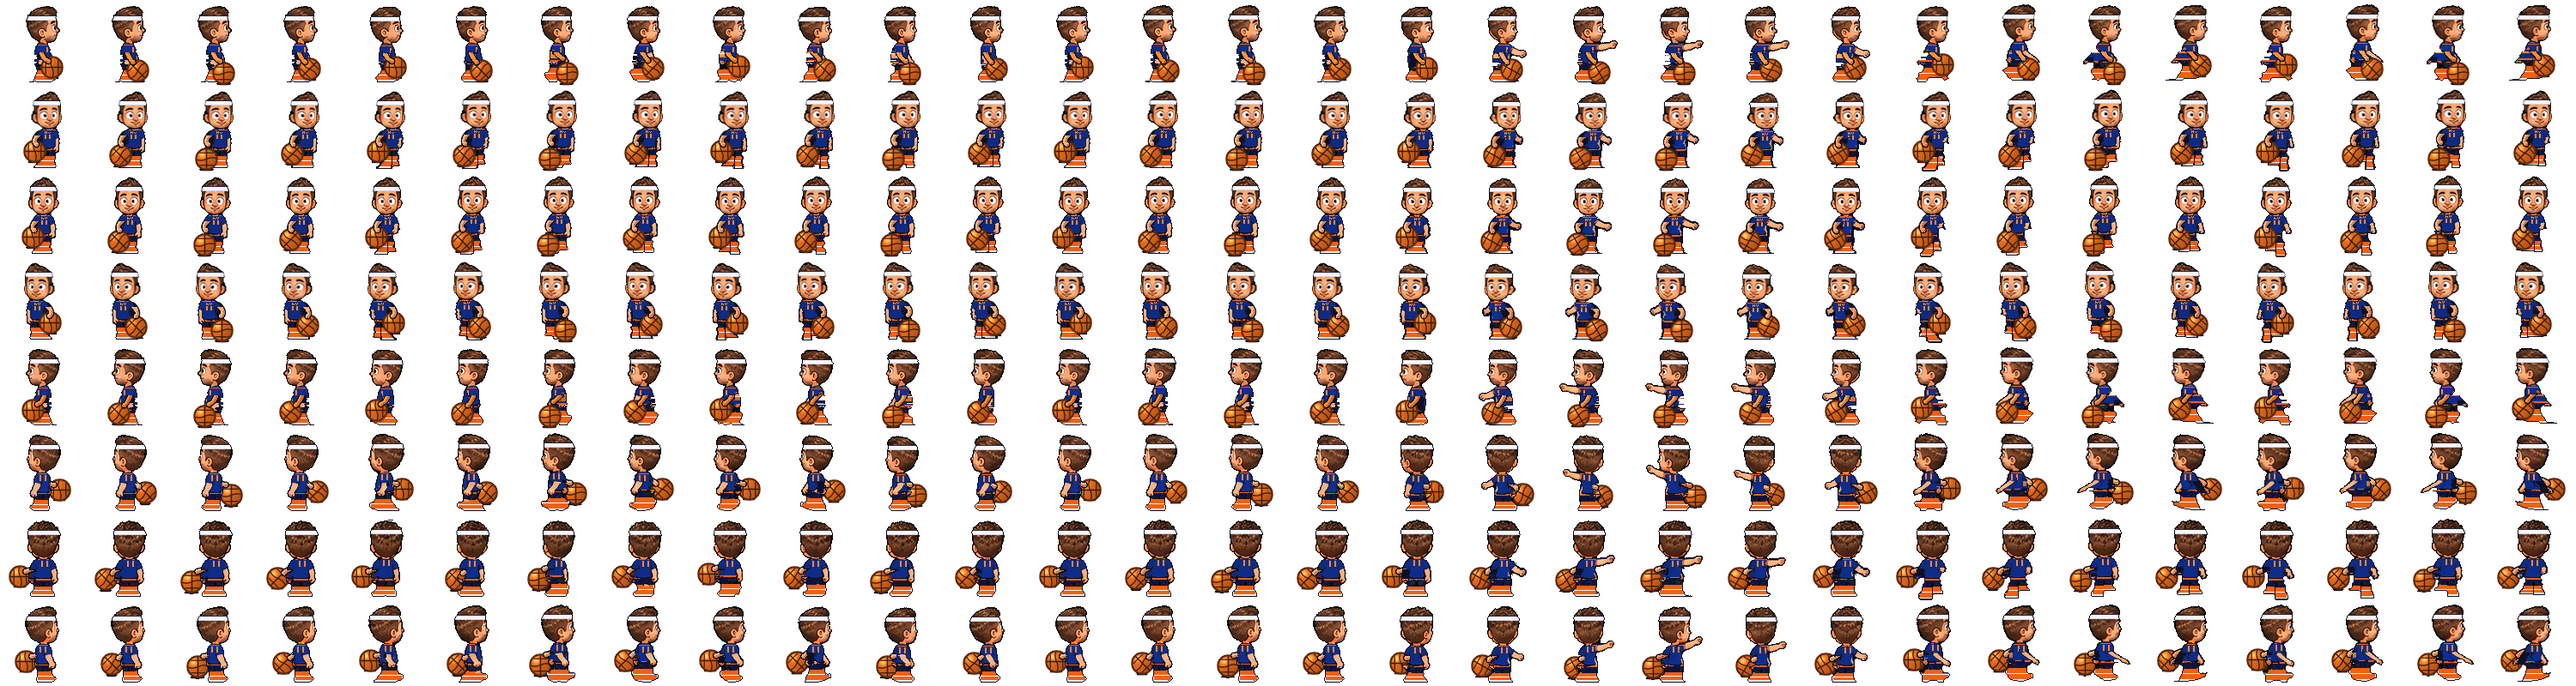
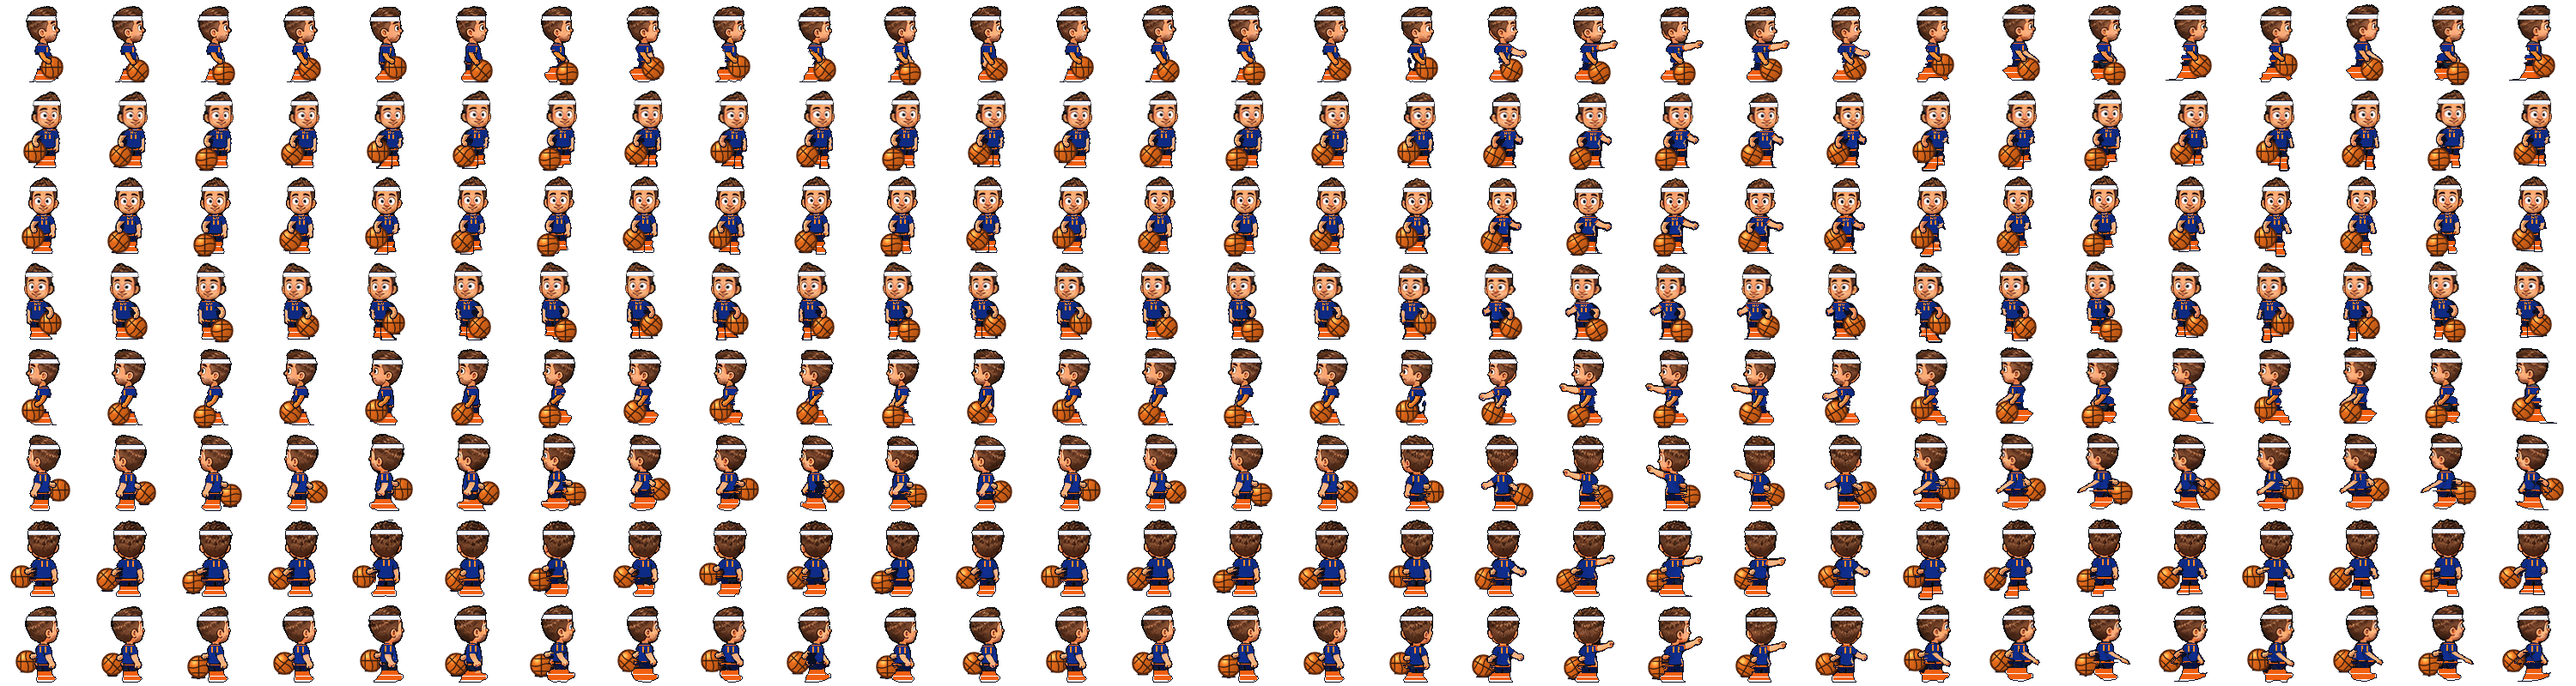
Remove the leftover arm shards behind the hips on run and walk.
The old swinging arm's outline was being filled back in as a navy fin. Those pixels are cleared so the shorts and legs follow the base James silhouette, and every frame is checked for fragments outside that shape.

diff --git a/phaser-tag-client/tools/make_basketball_skin.py b/phaser-tag-client/tools/make_basketball_skin.py
@@ -580,34 +580,52 @@ def _is_cloth(rgb: np.ndarray) -> np.ndarray:
     return navy | orange
 
 
-def drop_limp_arm(body: np.ndarray, g: Geometry, direction: str) -> np.ndarray:
-    """Clear the original arm on the dribble side.
+def dribble_arm_mask(src: np.ndarray, g: Geometry, direction: str) -> np.ndarray:
+    """The original swinging arm on the dribble side, outline included.
 
-    Only bare skin and the outline pixel touching it. The head, the neck
-    and the jersey stay. Navy used to get swept up with the outline and
-    left a hole the grass showed through.
+    Taken from the base James frame so the shorts and legs stay his shape.
+    The other arm is the one that tags, and it stays.
     """
-    h, w = body.shape[:2]
+    h, w = src.shape[:2]
     yy = np.arange(h)[:, None]
-    xx = np.arange(w)[None, :].astype(np.float64)
+    face = (yy <= g.neck + 1) & skin_mask(src)
+    arms, _hands = arms_and_hands(src, g, face)
     side = float(-TAG_SIDE[direction])
-    on_side = (xx - g.head_cx) * side > 1.2
-    # below the chin, so the back of the head and the neck are not an arm
-    below = yy > g.neck + 6
-    above_leg = yy < g.hem
-    cloth = _is_cloth(body[..., :3])
-    sk = loose_skin(body) & on_side & below & above_leg & ~cloth
-    # a raised forearm on the run, still clear of the skull
-    raised = (
-        loose_skin(body) & on_side & ~cloth
-        & (yy > g.neck + 2) & (yy <= g.neck + 6)
-        & ((xx - g.head_cx) * side > 11)
-    )
-    sk = sk | raised
-    dark = alpha_mask(body) & (lum(body) < 55) & ~cloth & on_side & below & above_leg
-    limp = sk | grow(sk, dark, 1)
+    on = np.zeros_like(arms)
+    for comp in components8(arms):
+        _ys, xs = np.nonzero(comp)
+        if len(xs) == 0:
+            continue
+        if float(((xs - g.head_cx) * side > 0).mean()) > 0.55:
+            on |= comp
+    # below the chin; the mask already starts under the neck
+    on &= yy > g.neck + 2
+    # the black outline of that arm, a couple of pixels out. The silhouette
+    # outline is connected, so this stops after two steps and does not walk
+    # around the whole body.
+    L = lum(src)
+    dark = (src[..., 3] > 40) & (L < 55)
+    for _ in range(2):
+        pad = np.pad(on, 1, constant_values=False)
+        nb = (
+            pad[:-2, 1:-1] | pad[2:, 1:-1] | pad[1:-1, :-2] | pad[1:-1, 2:]
+            | pad[:-2, :-2] | pad[:-2, 2:] | pad[2:, :-2] | pad[2:, 2:]
+        )
+        on = on | (nb & dark & (yy > g.neck + 2))
+    return on
+
+
+def drop_limp_arm(body: np.ndarray, g: Geometry, direction: str,
+                  arm_mask: np.ndarray | None = None) -> np.ndarray:
+    """Clear the original dribble-side arm, skin and outline together.
+
+    A skin-only erase left the black outline behind, and filling that
+    gap painted it back as a navy shard on the hip.
+    """
+    if arm_mask is None:
+        arm_mask = dribble_arm_mask(body, g, direction)
     out = body.copy()
-    out[limp] = 0
+    out[arm_mask] = 0
     return out
 
 
@@ -925,7 +943,8 @@ def _inward_color(row: np.ndarray, x_edge: int, cx: float):
     return None
 
 
-def close_arm_gap(merged: np.ndarray, painted: np.ndarray, g: Geometry) -> np.ndarray:
+def close_arm_gap(merged: np.ndarray, painted: np.ndarray, g: Geometry,
+                  arm_mask: np.ndarray | None = None) -> np.ndarray:
     """Grass between the new arm and the hip is the old arm, erased.
 
     That pocket is open at the top, so it is not an enclosed hole, but it
@@ -936,6 +955,9 @@ def close_arm_gap(merged: np.ndarray, painted: np.ndarray, g: Geometry) -> np.nd
     yy = np.arange(h)[:, None]
     missing = (painted[..., 3] > 40) & (merged[..., 3] < 20)
     missing &= (yy > g.neck + 4) & (yy < g.hem + 14)
+    # the swinging arm stays gone; filling it is the navy shard behind the hip
+    if arm_mask is not None:
+        missing &= ~arm_mask
     if not missing.any():
         return merged
     out = merged.copy()
@@ -984,6 +1006,91 @@ def close_arm_gap(merged: np.ndarray, painted: np.ndarray, g: Geometry) -> np.nd
     return out
 
 
+def _dilate(mask: np.ndarray, radius: int) -> np.ndarray:
+    m = mask
+    for _ in range(radius):
+        p = np.pad(m, 1, constant_values=False)
+        m = (
+            p[1:-1, 1:-1]
+            | p[:-2, 1:-1] | p[2:, 1:-1] | p[1:-1, :-2] | p[1:-1, 2:]
+            | p[:-2, :-2] | p[:-2, 2:] | p[2:, :-2] | p[2:, 2:]
+        )
+    return m
+
+
+def _zone_arm(h: int, w: int, shoulder, elbow, hand, pad: float = 1.8) -> np.ndarray:
+    """Pixels the new dribble arm covers, including its antialiased edge."""
+    pts, frac, _total = _arm_samples(shoulder, elbow, hand)
+    Y, X = np.mgrid[0:h, 0:w]
+    best_d = np.full((h, w), 1e9)
+    best_s = np.zeros((h, w))
+    for i in range(len(pts) - 1):
+        d, tt = seg_dist(X, Y, pts[i, 0], pts[i, 1], pts[i + 1, 0], pts[i + 1, 1])
+        closer = d < best_d
+        best_d = np.where(closer, d, best_d)
+        best_s = np.where(closer, frac[i] * (1.0 - tt) + frac[i + 1] * tt, best_s)
+    return best_d <= (_limb_radius(best_s) + pad)
+
+
+def _zone_ball(h: int, w: int, bx: float, by: float) -> np.ndarray:
+    Y, X = np.mgrid[0:h, 0:w]
+    return (X - bx) ** 2 + (Y - by) ** 2 <= (BALL_R + 1.8) ** 2
+
+
+def _zone_shadow(h: int, w: int, gx: float, gy: float) -> np.ndarray:
+    Y, X = np.mgrid[0:h, 0:w]
+    sx = (X - gx) / (BALL_R * 0.70)
+    sy = (Y - gy) / 2.1
+    return (sx * sx + sy * sy) < 1.3
+
+
+def stray_fragments(merged: np.ndarray, src: np.ndarray, arm_mask: np.ndarray,
+                    shoulder, elbow, hand, bx: float, by: float,
+                    gx: float, gy: float) -> np.ndarray:
+    """Opaque pixels that are not the base body, the ball, or the new arm.
+
+    The base body is James with the dribble-side arm removed. A shard of
+    the old arm, or a patch filled outside that silhouette, shows up here.
+    """
+    opaque = src[..., 3] > 40
+    remain = opaque & ~arm_mask
+    keep = np.zeros_like(remain)
+    # the torso, the other arm and the legs are large. Outline crumbs of
+    # the erased arm are a few pixels and are not part of his silhouette.
+    for comp in components8(remain):
+        if int(comp.sum()) >= 30:
+            keep |= comp
+    # inside that silhouette, including a one-pixel outline. A fin that
+    # sticks out past it is not inside, so it still counts as a fragment.
+    shell = np.where(_dilate(keep, 1), np.uint8(255), np.uint8(0))
+    allowed = ~_outside_clear(shell, thresh=24)
+    h, w = merged.shape[:2]
+    allowed |= _zone_arm(h, w, shoulder, elbow, hand)
+    allowed |= _zone_ball(h, w, bx, by)
+    allowed |= _zone_shadow(h, w, gx, gy)
+    raw = (merged[..., 3] > 80) & ~allowed
+    if not raw.any():
+        return raw
+    # a repaired slit sits inside the shirt. A shard is a patch that touches
+    # the outside, so only those components count.
+    a = merged[..., 3] > 40
+    pad = np.pad(~a, 1, constant_values=True)
+    touches = pad[:-2, 1:-1] | pad[2:, 1:-1] | pad[1:-1, :-2] | pad[1:-1, 2:]
+    exposed = np.zeros_like(raw)
+    for comp in components8(raw):
+        if (comp & touches).any():
+            exposed |= comp
+    return exposed
+
+
+def clear_stray_fragments(merged: np.ndarray, stray: np.ndarray) -> np.ndarray:
+    if not stray.any():
+        return merged
+    out = merged.copy()
+    out[stray] = 0
+    return out
+
+
 def baller(frame: np.ndarray, direction: str, anim: str, index: int) -> np.ndarray:
     src = pad_frame(frame)
     if not alpha_mask(src).any():
@@ -991,7 +1098,8 @@ def baller(frame: np.ndarray, direction: str, anim: str, index: int) -> np.ndarr
     g0 = Geometry(src)
     painted, _chest, _hands = paint_uniform(src, g0, direction)
     g = Geometry(painted)
-    body = drop_limp_arm(painted, g, direction)
+    arm_mask = dribble_arm_mask(src, g0, direction)
+    body = drop_limp_arm(painted, g, direction, arm_mask)
     body = restore_body(body, painted, g)
     body = repair_torso(body, g, direction)
     body = scrub_loose_ink(body)
@@ -1036,9 +1144,15 @@ def baller(frame: np.ndarray, direction: str, anim: str, index: int) -> np.ndarr
     else:
         merged = to_u8(over(premul(body), over(shadow, ball)))
         draw_dribble_arm(merged, g0, direction, shoulder, elbow, hand)
-    merged = close_arm_gap(merged, painted, g)
+    merged = close_arm_gap(merged, painted, g, arm_mask)
     merged = snap_interior(merged)
     merged = fill_enclosed_holes(merged)
+    stray = stray_fragments(
+        merged, src, arm_mask, shoulder, elbow, hand, bx, by, gx, gy)
+    merged = clear_stray_fragments(merged, stray)
+    # clearing a shard can open a slit in the shirt; close that, not the fin
+    merged = fill_enclosed_holes(merged)
+    merged = snap_interior(merged)
     return merged
 
 
@@ -1047,6 +1161,46 @@ def anim_of(col: int, meta: dict) -> tuple[str, int]:
         if spec["start"] <= col < spec["start"] + spec["count"]:
             return name, col - spec["start"]
     return "idle", 0
+
+
+def count_strays(frame: np.ndarray, merged: np.ndarray, direction: str,
+                 anim: str, index: int) -> int:
+    """Re-check a finished frame. The pose matches baller, including the tuck."""
+    src = pad_frame(frame)
+    if not alpha_mask(src).any():
+        return 0
+    g0 = Geometry(src)
+    arm_mask = dribble_arm_mask(src, g0, direction)
+    painted, _chest, _hands = paint_uniform(src, g0, direction)
+    g = Geometry(painted)
+    body = drop_limp_arm(painted, g, direction, arm_mask)
+    body = restore_body(body, painted, g)
+    body = repair_torso(body, g, direction)
+    body = scrub_loose_ink(body)
+    body = restore_body(body, painted, g)
+    a = body[..., 3] > 200
+    rim = silhouette(a)
+    yy, xx = np.mgrid[0:body.shape[0], 0:body.shape[1]]
+    side = float(-TAG_SIDE[direction])
+    edge = rim & (yy > g.neck + 5) & (yy < g.hem + 2) & ((xx - g.head_cx) * side > -2)
+    body[edge, :3] = INK
+    body[edge, 3] = 255
+    body = snap_interior(body)
+    body = fill_enclosed_holes(body)
+    shoulder, elbow, rest_hand, high, low, _side = _layout(g0, direction)
+    if direction in BACK:
+        shoulder, elbow, rest_hand, high, low = _tuck_back(
+            body, g0, direction, shoulder, elbow, rest_hand, high, low)
+    t = bounce_t(anim, index)
+    hand = _flick_hand(elbow, rest_hand, t)
+    bx = high[0] * (1.0 - t) + low[0] * t
+    by = high[1] * (1.0 - t) + low[1] * t
+    margin = BALL_R + 0.6
+    bx = float(np.clip(bx, margin, 100.0 - margin))
+    by = float(np.clip(by, margin, 100.0 - margin))
+    gx, gy = bx, float(min(by + BALL_R, 99.0))
+    return int(stray_fragments(
+        merged, src, arm_mask, shoulder, elbow, hand, bx, by, gx, gy).sum())
 
 
 def main():
@@ -1061,11 +1215,22 @@ def main():
     ofh = fh + PAD_TOP
     ofw = fw + 2 * PAD_SIDE
     out = np.zeros((len(dirs) * ofh, cols * ofw, 4), dtype=np.uint8)
+    stray_hits: list[str] = []
     for r, direction in enumerate(dirs):
         for c in range(cols):
             anim, index = anim_of(c, meta)
             fr = src[r * fh:(r + 1) * fh, c * fw:(c + 1) * fw]
-            out[r * ofh:(r + 1) * ofh, c * ofw:(c + 1) * ofw] = baller(fr, direction, anim, index)
+            cell = baller(fr, direction, anim, index)
+            out[r * ofh:(r + 1) * ofh, c * ofw:(c + 1) * ofw] = cell
+            n = count_strays(fr, cell, direction, anim, index)
+            if n:
+                stray_hits.append(f"{direction} {anim} {index} (col {c}): {n} stray px")
+    if stray_hits:
+        print("stray fragments outside the James silhouette:")
+        for line in stray_hits:
+            print(" ", line)
+        raise SystemExit(1)
+    print(f"silhouette check ok ({len(dirs) * cols} frames)")
     Image.fromarray(out).save(ASSETS / "kid_basketball.png", optimize=True)
     bb = dict(meta)
     bb["image"] = "kid_basketball.png"
